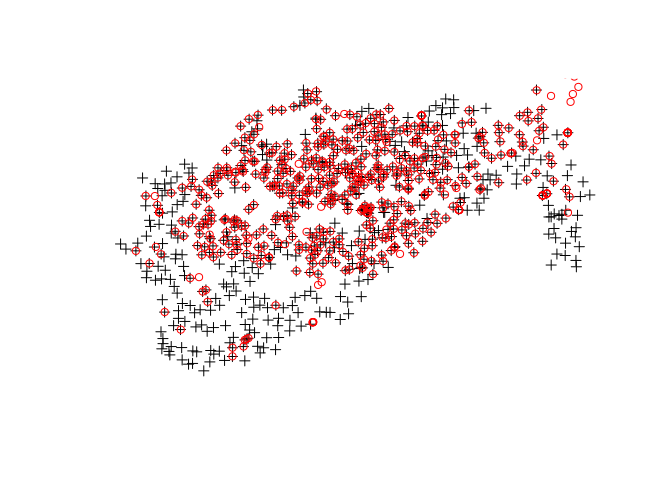
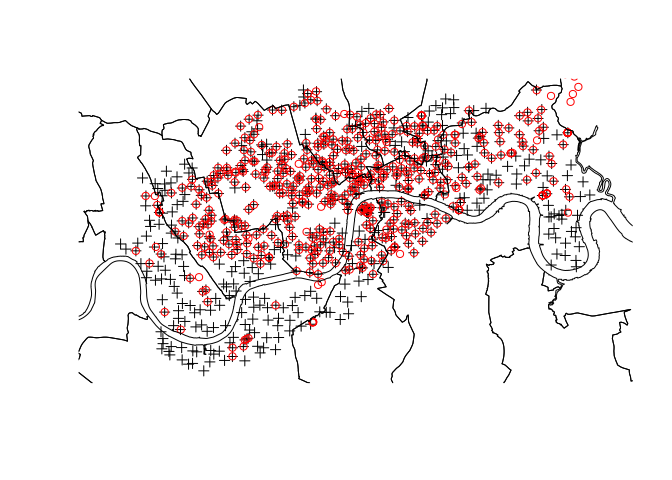
Add point density per zone

diff --git a/vignettes/point-pattern.md b/vignettes/point-pattern.md
@@ -6,6 +6,9 @@ Point Pattern analysis and spatial interpolation with R
 -   [Point density](#point-density)
     -   [Exercises](#exercises)
     -   [Challenges](#challenges)
+-   [Points in polygons](#points-in-polygons)
+    -   [Exercises](#exercises-1)
+    -   [Challenge](#challenge)
 -   [References](#references)
 
 Introduction
@@ -116,6 +119,53 @@ Challenges
 
 -   Reproduce the result using **sp** code.
 -   Reproduce the resuts using **sf** code.
+
+Points in polygons
+==================
+
+A useful level of analysis at which to analyse the geographical distribution of points is the zone-level. We can aggregate the points per zone and provide summary statistics. Starting with the number of points per polygon, this would calculated as follows:
+
+``` r
+cycle_hire_ag = aggregate(cycle_hire["id"], lnd, FUN = "length")
+```
+
+Exercises
+---------
+
+Based on an analysis of the `cycle_hire_ag`:
+
+-   How many zones contain no cycle hire points?
+-   What is the average number of cycle hire points per zone?
+
+Challenge
+---------
+
+Find the average density of cycle hire points per zone in London.
+
+-   Plot the result in an attractive map (e.g. as shown below).
+-   Find which zone has the highest density of cycle hire points.
+
+``` r
+lnd_areas = area(lnd) / 1e6
+lnd$`cycle_hire_density` = cycle_hire_ag$id / lnd_areas
+library(tmap)
+bb = tmaptools::bb(cycle_hire, 2)
+ft = "Cycle hire density\n(per square km)"
+# tmap_mode("view")
+(m = qtm(lnd, "cycle_hire_density", fill.title = ft, bbox = bb))
+```
+
+![](point-pattern_files/figure-markdown_github/zonedense-1.png)
+
+``` r
+# save_tmap(tm = m, filename = "figure/cyle-hire-lnd.png", width = 600)
+lnd$NAME[which.max(lnd$cycle_hire_density)]
+```
+
+    ## [1] City of London
+    ## 33 Levels: Barking and Dagenham Barnet Bexley Brent Bromley ... Westminster
+
+![](point-pattern_files/figure-markdown_github/zonedense-1.png)
 
 References
 ==========
